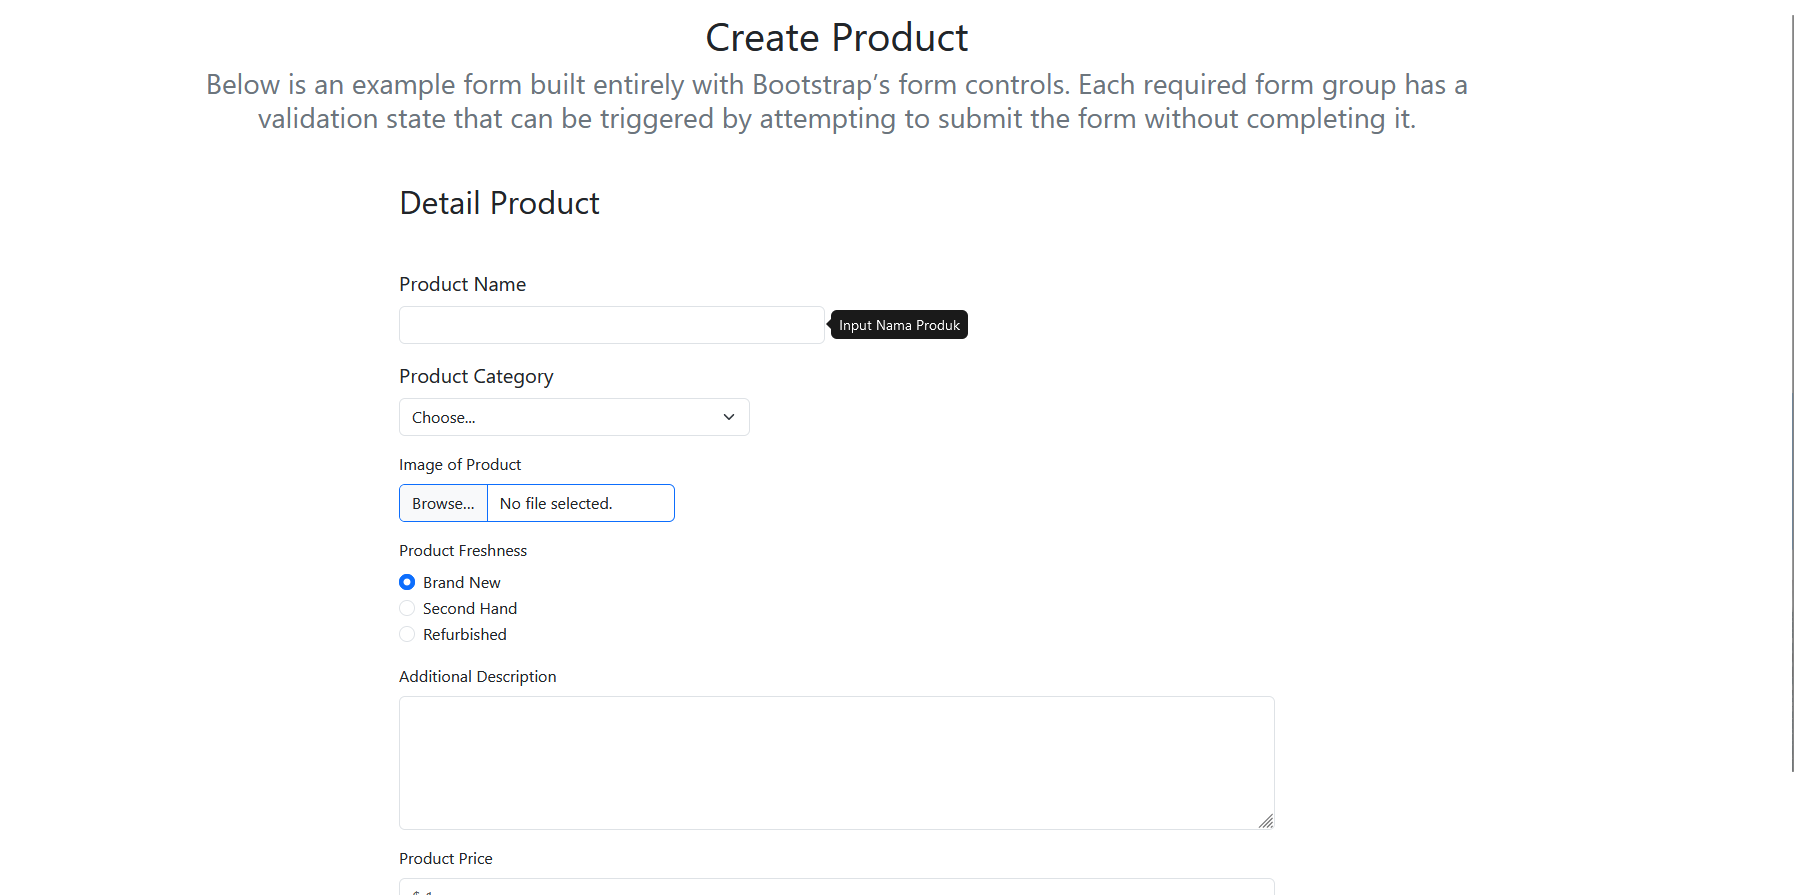
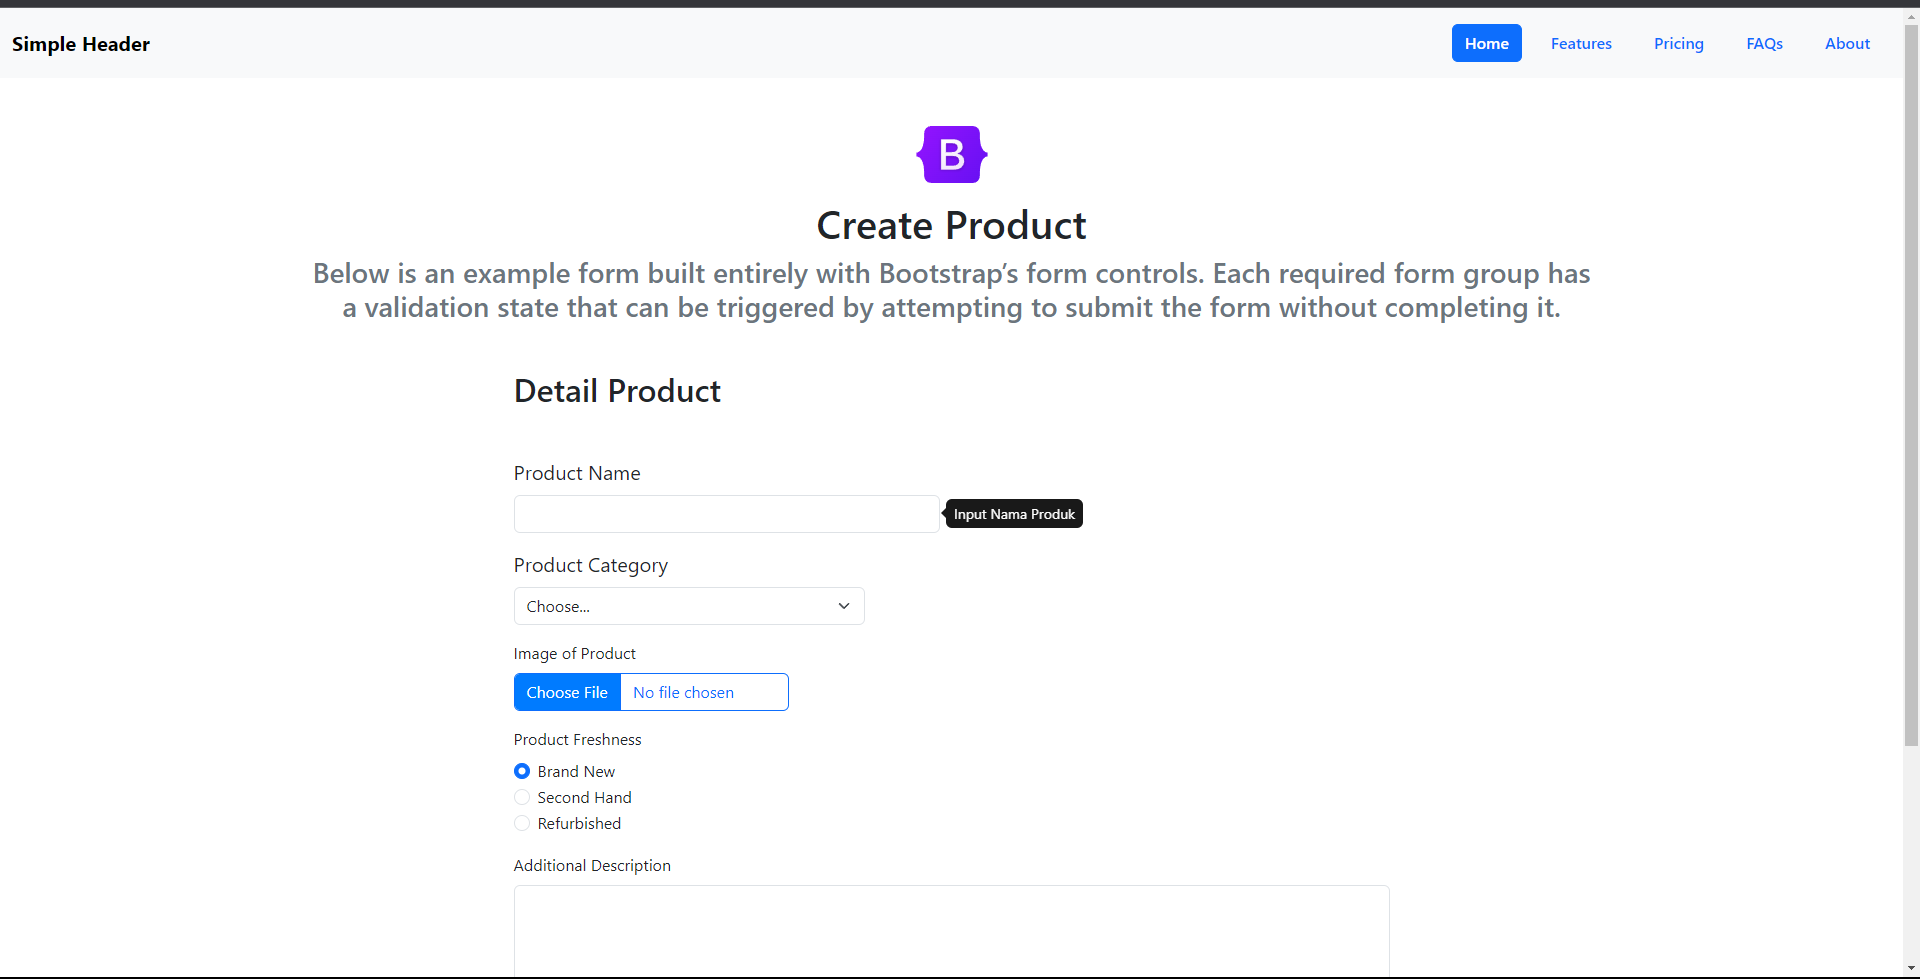
update: bootstrap and add screenshot to figma

diff --git a/06_Bootstrap/praktikum/createProduct.html b/06_Bootstrap/praktikum/createProduct.html
@@ -6,6 +6,7 @@
     <script src="https://cdn.jsdelivr.net/npm/bootstrap@5.3.1/dist/js/bootstrap.bundle.min.js" integrity="sha384-HwwvtgBNo3bZJJLYd8oVXjrBZt8cqVSpeBNS5n7C8IVInixGAoxmnlMuBnhbgrkm" crossorigin="anonymous"></script>
     <script src="https://cdn.jsdelivr.net/npm/@popperjs/core@2.11.8/dist/umd/popper.min.js" integrity="sha384-I7E8VVD/ismYTF4hNIPjVp/Zjvgyol6VFvRkX/vR+Vc4jQkC+hVqc2pM8ODewa9r" crossorigin="anonymous"></script>
     <script src="https://cdn.jsdelivr.net/npm/bootstrap@5.3.1/dist/js/bootstrap.min.js" integrity="sha384-Rx+T1VzGupg4BHQYs2gCW9It+akI2MM/mndMCy36UVfodzcJcF0GGLxZIzObiEfa" crossorigin="anonymous"></script>
+    <link rel="stylesheet" href="./assets/createProductStyles.css">
 </head>
 <body>
     <header>
@@ -75,7 +76,7 @@
                         <div class="row">
                             <div class="col-md-4 mb-3">
                                 <label for="formFile" class="form-label">Image of Product</label>
-                                <input class="form-control border-primary" 
+                                <input class="form-control border-primary text-primary" 
                                     type="file" 
                                     data-bs-toggle="tooltip" 
                                     data-bs-placement="right" 

diff --git a/06_Bootstrap/praktikum/assets/createProductStyles.css b/06_Bootstrap/praktikum/assets/createProductStyles.css
@@ -1,0 +1,4 @@
+input[type=file]::file-selector-button{
+    background-color: #007BFF;
+    color: white;
+}
